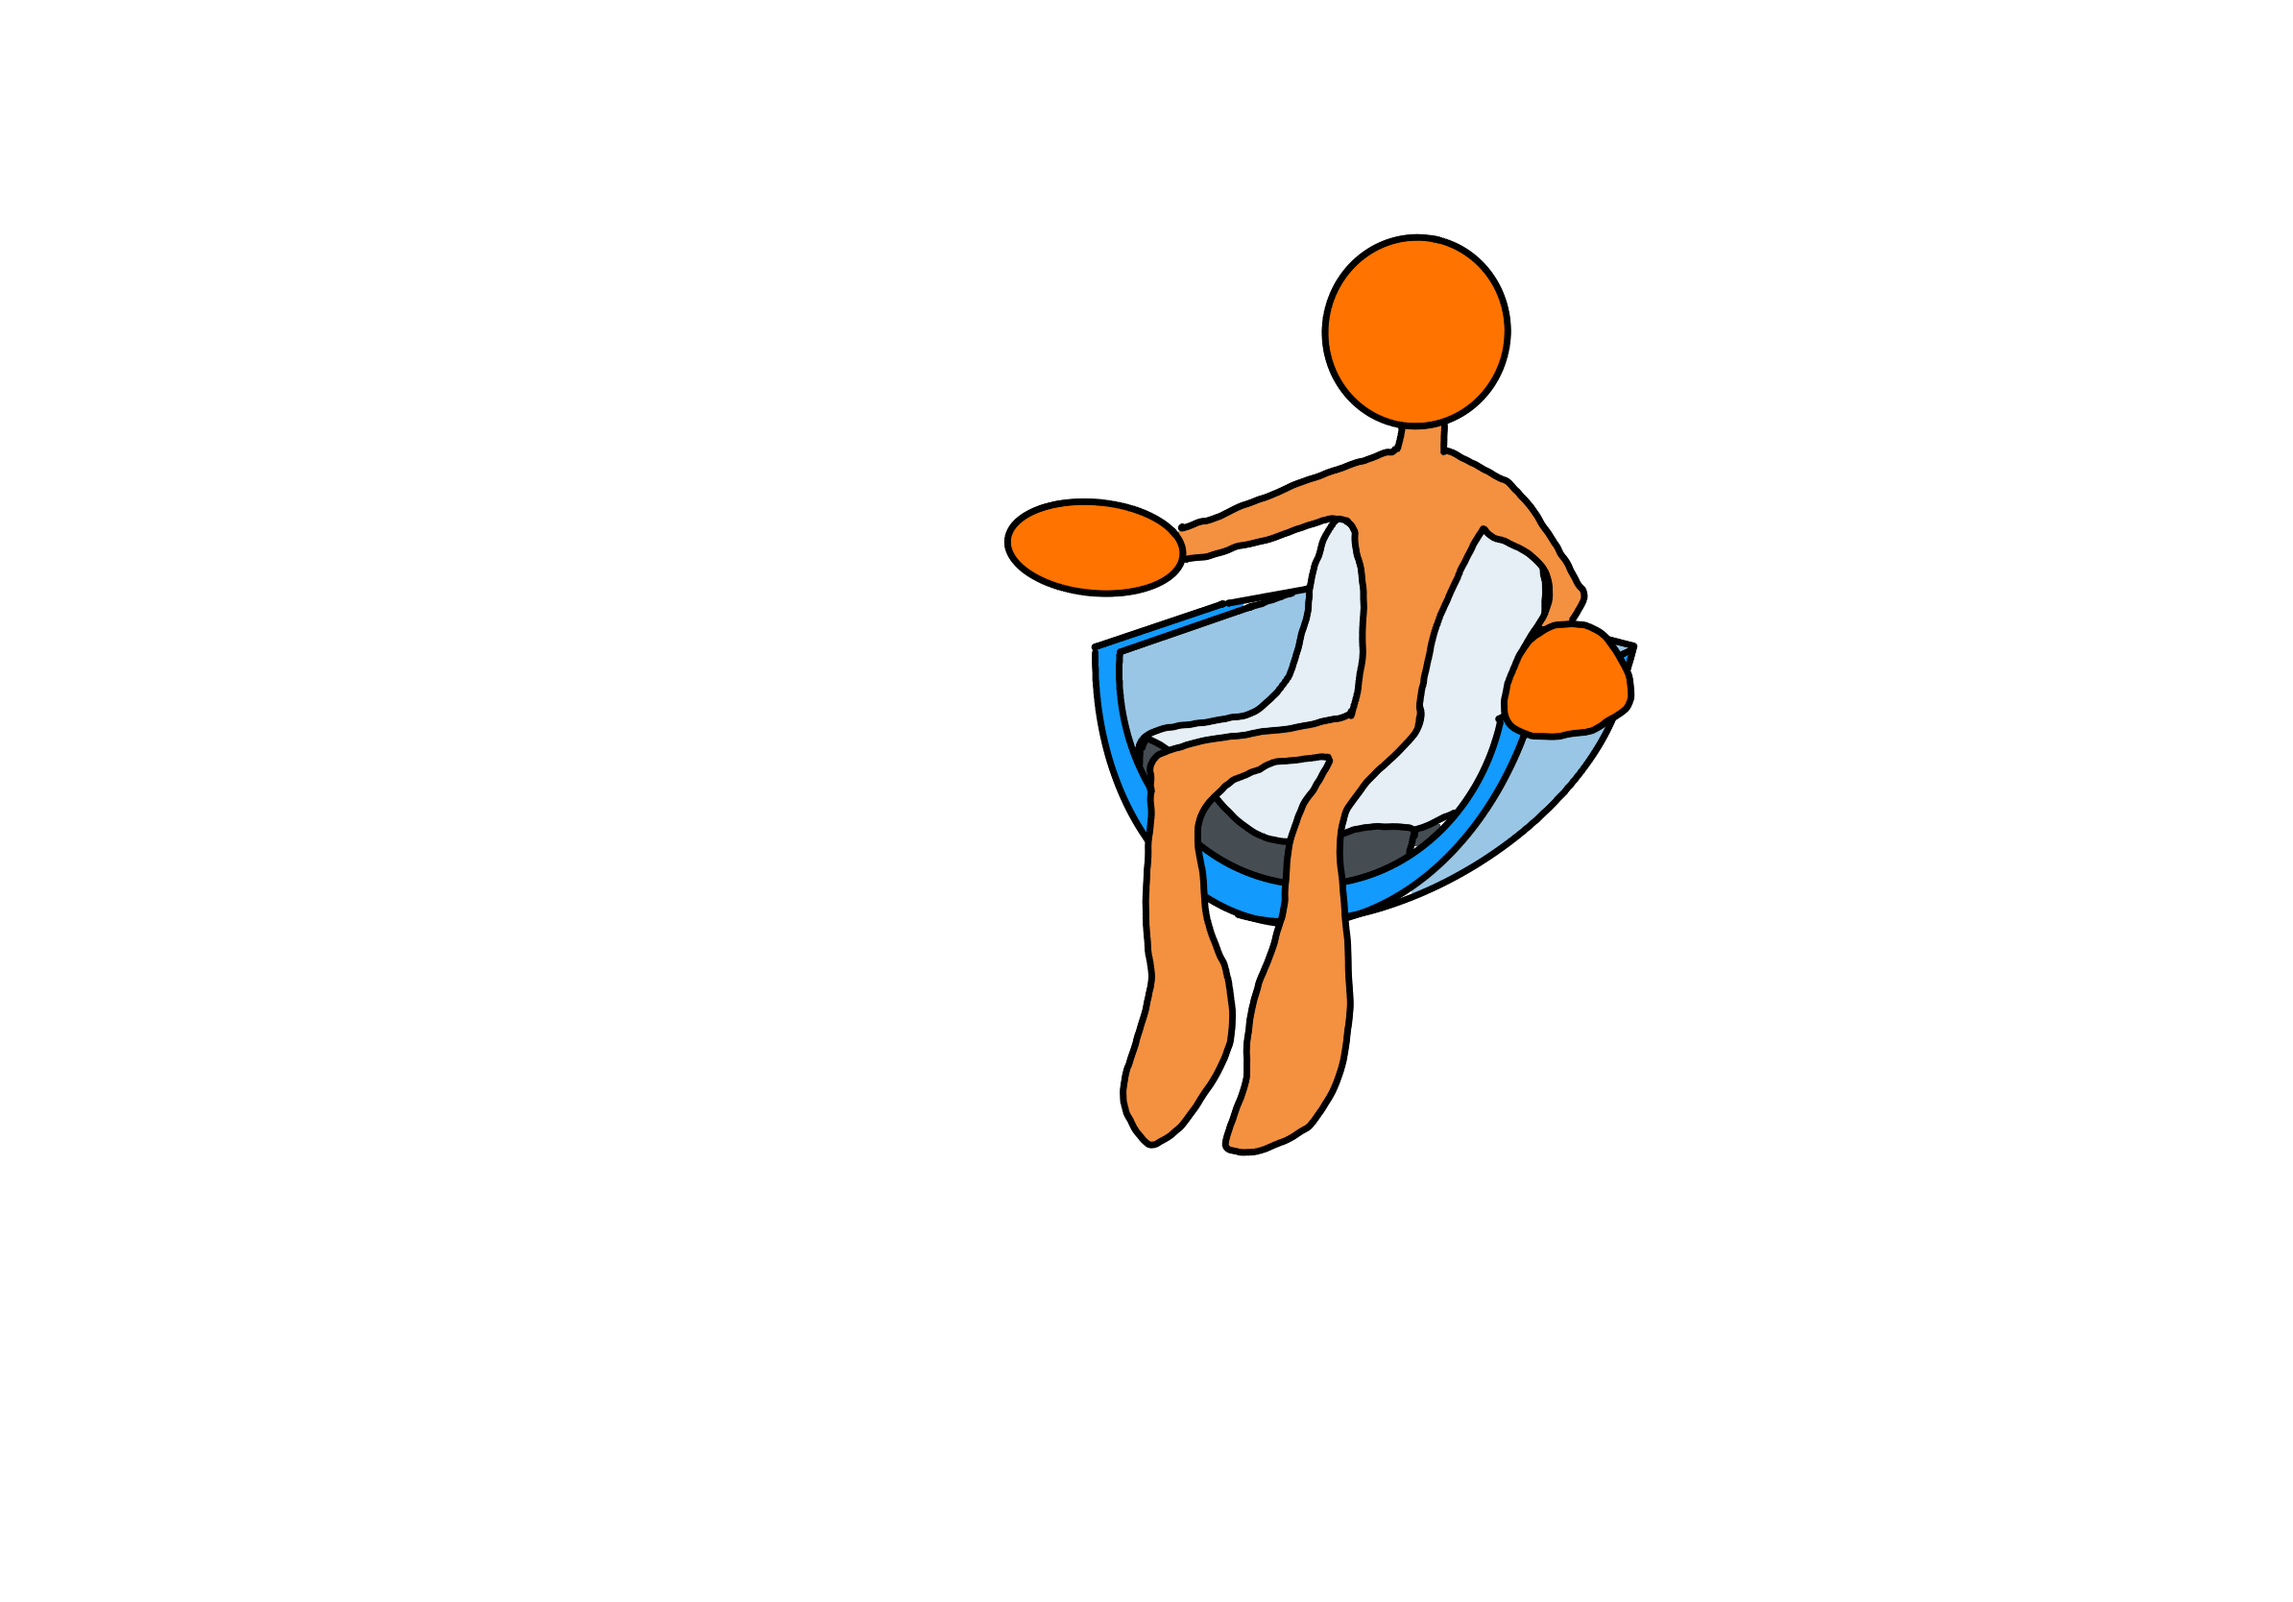
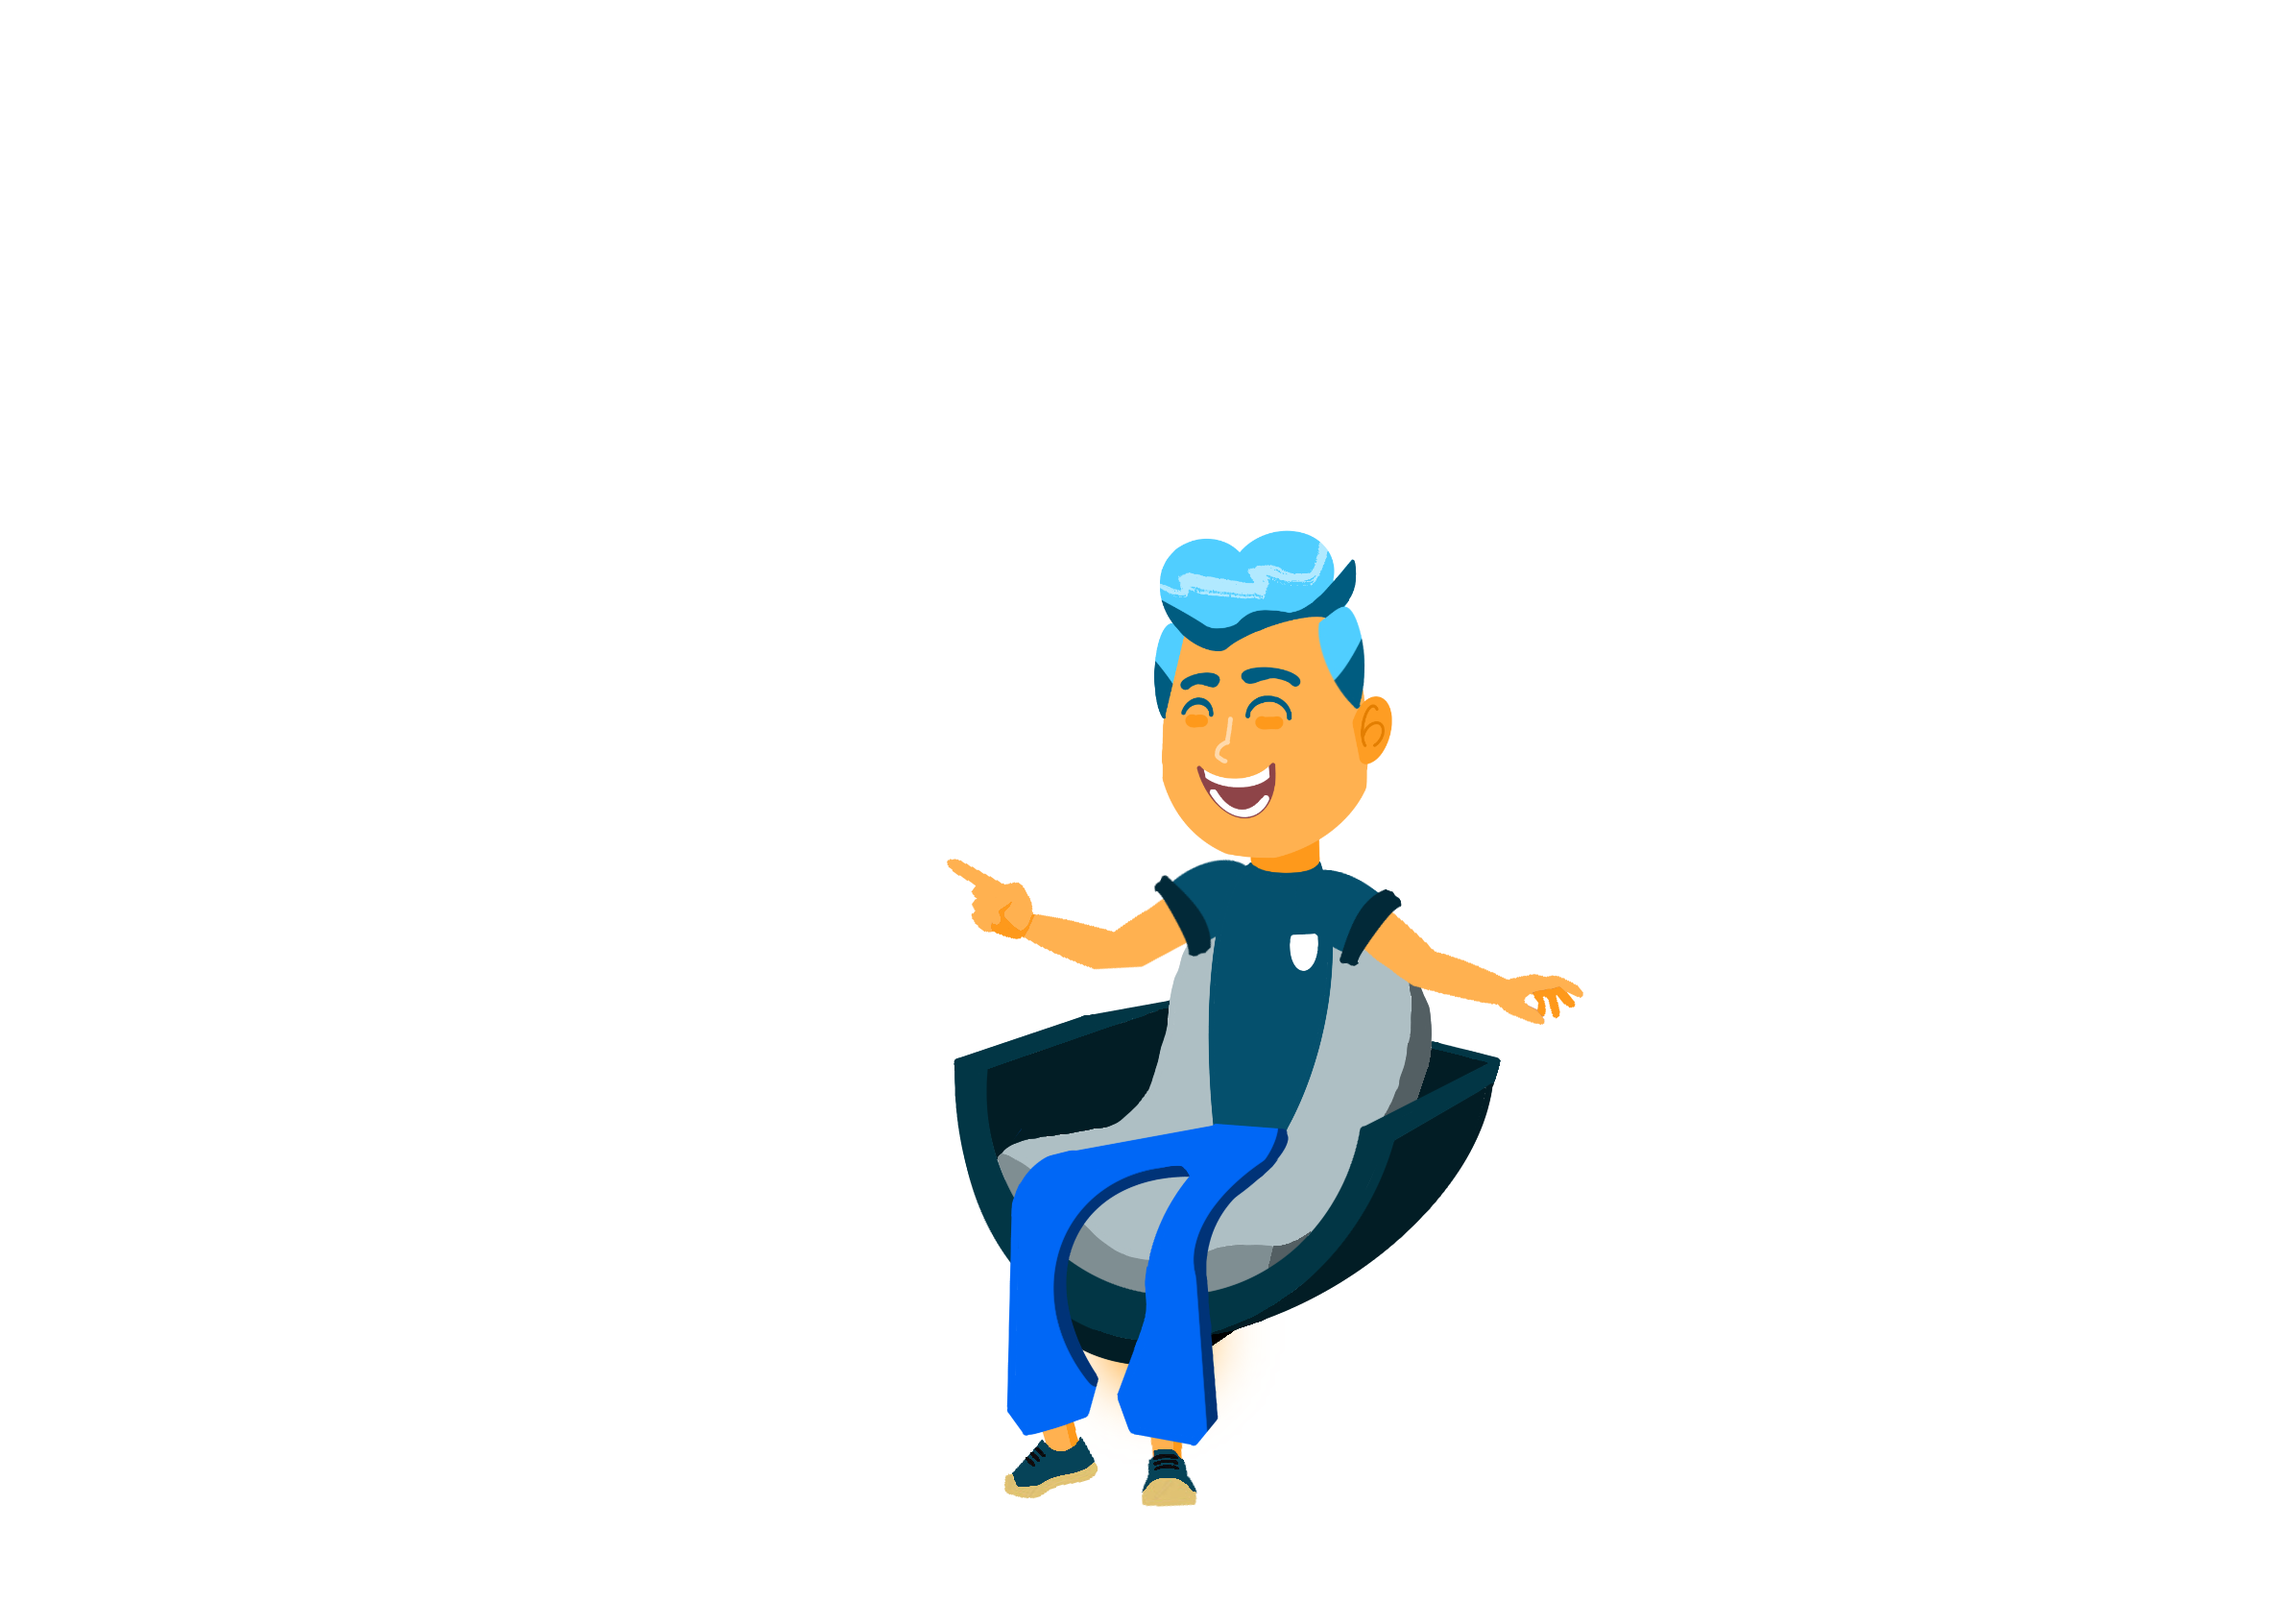
hero image update

Changed region(s): [[0.4028, 0.1247, 0.7127, 0.9664]]

diff --git a/src/index.css b/src/index.css
@@ -13,7 +13,7 @@ body {
 .contact-container {
     height: 100vh;
     border: 1px solid;
-    margin: 0 15rem;
+    padding: 0 15rem;
 }
 
 .about-container,
@@ -28,6 +28,8 @@ body {
 .hero-container {
     display: flex;
     align-items: center;
+    color: orange;
+    background: #2f2a25;
 }
 
 .hero-container .right,
@@ -36,20 +38,20 @@ body {
 }
 
 .hero-container .right img {
-    width: 500px;
-    height: 500px;
+    width: calc(2388px*.38);
+    height: calc(1668px*.38);
     display: block;
 }
 
 .dev {
-    border: 1px solid white;
+    /* border: 1px solid white; */
     position: absolute;
-    top: 250px;
-    animation: hoverChair 1.5s ease-in-out 0s infinite alternate;
+    top: 170px;
+    animation: hoverChair 2s ease-in-out 0s infinite alternate;
 }
 
 .desk {
-    border: 1px solid white;
+    /* border: 1px solid white; */
 }
 
 @keyframes hoverChair {
